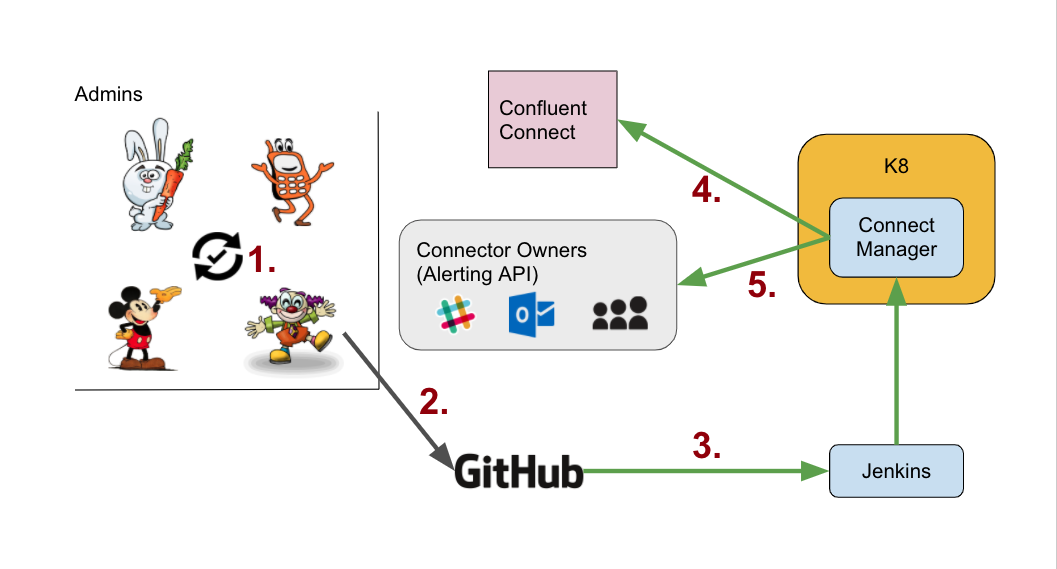
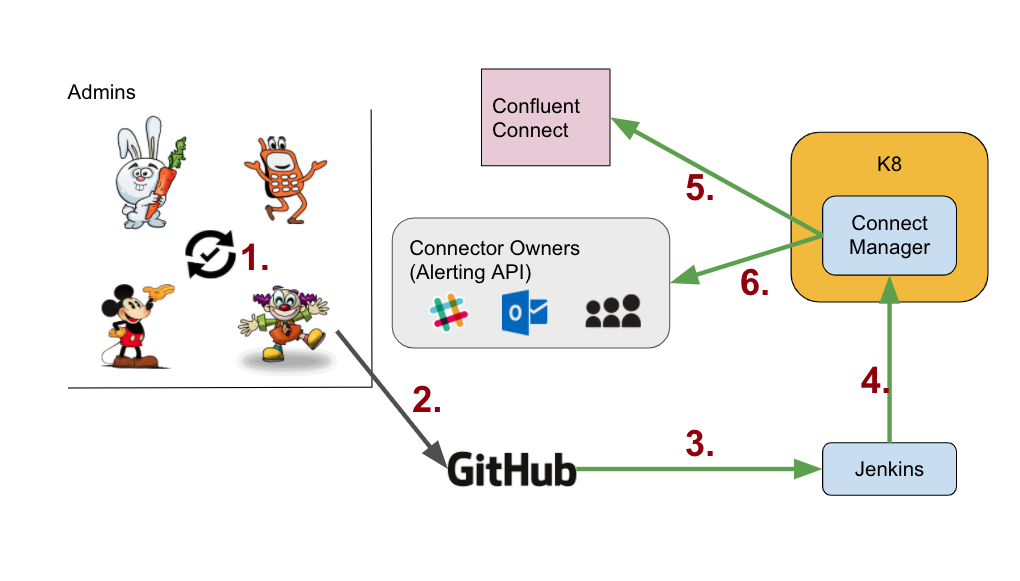
modifying diagram

diff --git a/README.md b/README.md
@@ -20,8 +20,9 @@ With the help of some conformity (state file), we can control ownership of the c
 1. Work with developers/admins and decide on the connector configuration needed.
 2. Make a pull request to get that connector added into the state file.
 3. Jenkins reads the new commit on the state file and requests `Connect Manager` to apply the change.
-4. Connect Manager adds the connector
-5. Jenkins recieives a confirmation from the service and notifies the admins on teams/slack.
+4. Jenkins asks Connect Manager to update state
+5. Connect Manager pulls the state file (from github or wherever Jenkins outs it) adds the connector
+6. Upon completion, notifies the owners of the connectors that were updated.
 
 ## Proof of Concept
 This project is a service on top of Kafka Connect that reads a state file and applies changes to the Connect servers. For demonstration purposes we will show the working of following capabilities through this service API:
